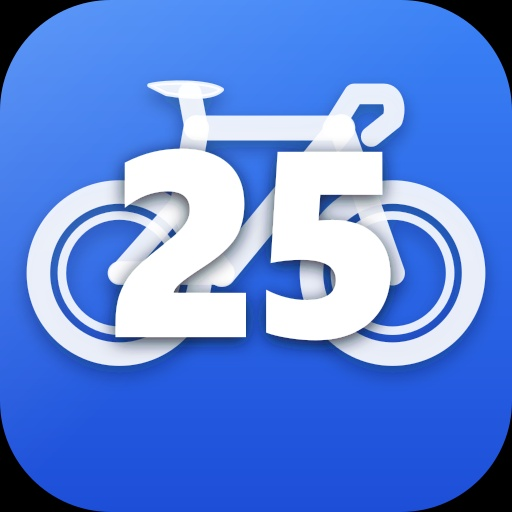
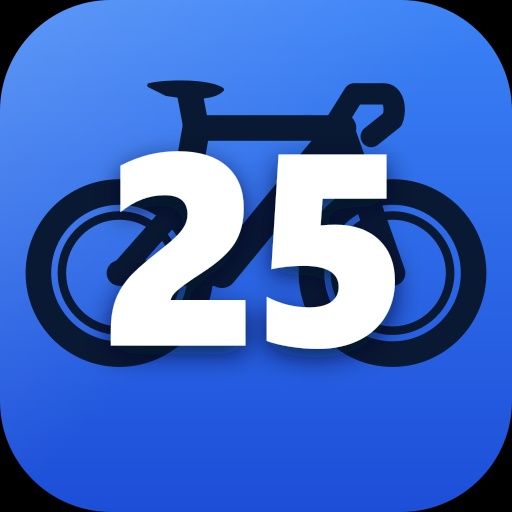
Apply Option 1: dark midnight Scott Foil RC silhouette with giant pure white day number for maximum contrast

Changed region(s): [[0.0312, 0.1562, 0.9688, 0.75]]

diff --git a/app/components/DynamicLogo.js b/app/components/DynamicLogo.js
@@ -9,7 +9,7 @@ export default function DynamicLogo({ className = "w-8 h-8", dayNumber }) {
         const currentDay = new Date().getDate();
         setToday(currentDay);
 
-        // Update favicon dynamically in real-time in browser tab (Google Calendar Style)
+        // Update favicon dynamically in real-time in browser tab
         try {
             const canvas = document.createElement('canvas');
             canvas.width = 64;
@@ -22,9 +22,9 @@ export default function DynamicLogo({ className = "w-8 h-8", dayNumber }) {
                 ctx.roundRect(0, 0, 64, 64, 15);
                 ctx.fill();
 
-                // 2. Scott Foil RC Bike Silhouette (Bold & High Visibility)
-                ctx.strokeStyle = 'rgba(255, 255, 255, 0.85)';
-                ctx.lineWidth = 3.2;
+                // 2. Scott Foil RC Bike Silhouette in Dark Midnight Slate
+                ctx.strokeStyle = '#091833';
+                ctx.lineWidth = 3.5;
                 ctx.lineCap = 'round';
                 ctx.lineJoin = 'round';
 
@@ -53,17 +53,17 @@ export default function DynamicLogo({ className = "w-8 h-8", dayNumber }) {
                 ctx.lineTo(49, 16);
                 ctx.stroke();
 
-                // 3. Foreground: HUGE PURE WHITE BOLD DAY NUMBER (with subtle shadow)
-                ctx.shadowColor = 'rgba(15, 23, 42, 0.9)';
+                // 3. Foreground: HUGE PURE WHITE BOLD DAY NUMBER
+                ctx.shadowColor = 'rgba(5, 19, 41, 0.9)';
                 ctx.shadowBlur = 4;
                 ctx.shadowOffsetX = 0;
                 ctx.shadowOffsetY = 2;
 
                 ctx.fillStyle = '#ffffff';
-                ctx.font = '900 36px system-ui, -apple-system, sans-serif';
+                ctx.font = '900 38px system-ui, -apple-system, sans-serif';
                 ctx.textAlign = 'center';
                 ctx.textBaseline = 'middle';
-                ctx.fillText(currentDay.toString(), 32, 35);
+                ctx.fillText(currentDay.toString(), 32, 34);
 
                 // Update link icon in head
                 let link = document.querySelector("link[rel*='icon']");
@@ -86,66 +86,61 @@ export default function DynamicLogo({ className = "w-8 h-8", dayNumber }) {
             className={className}
         >
             <defs>
-                <linearGradient id="solidBlueGrad" x1="0%" y1="0%" x2="0%" y2="100%">
+                <linearGradient id="opt1BgGrad" x1="0%" y1="0%" x2="0%" y2="100%">
                     <stop offset="0%" stopColor="#3b82f6"/>
                     <stop offset="100%" stopColor="#1d4ed8"/>
                 </linearGradient>
 
-                <linearGradient id="topGlow" x1="0%" y1="0%" x2="100%" y2="100%">
+                <linearGradient id="opt1TopGlow" x1="0%" y1="0%" x2="100%" y2="100%">
                     <stop offset="0%" stopColor="#ffffff" stopOpacity="0.18"/>
                     <stop offset="50%" stopColor="#ffffff" stopOpacity="0"/>
                 </linearGradient>
 
-                <filter id="bikeShadow" x="-15%" y="-15%" width="130%" height="130%">
-                    <feDropShadow dx="0" dy="2" stdDeviation="2" floodColor="#0f172a" floodOpacity="0.4"/>
-                </filter>
-
-                <filter id="strongNumShadow" x="-20%" y="-20%" width="140%" height="140%">
-                    <feDropShadow dx="0" dy="3" stdDeviation="4" floodColor="#0f172a" floodOpacity="0.85"/>
-                    <feDropShadow dx="0" dy="1" stdDeviation="2" floodColor="#0f172a" floodOpacity="0.9"/>
+                <filter id="opt1Shadow" x="-20%" y="-20%" width="140%" height="140%">
+                    <feDropShadow dx="0" dy="2" stdDeviation="3" floodColor="#051329" floodOpacity="0.75"/>
                 </filter>
             </defs>
 
-            {/* 1. Solid Blue Squircle Base */}
-            <rect width="120" height="120" rx="26" ry="26" fill="url(#solidBlueGrad)"/>
-            <rect width="120" height="120" rx="26" ry="26" fill="url(#topGlow)"/>
+            {/* 1. Squircle Base Canvas */}
+            <rect width="120" height="120" rx="26" ry="26" fill="url(#opt1BgGrad)"/>
+            <rect width="120" height="120" rx="26" ry="26" fill="url(#opt1TopGlow)"/>
 
-            {/* 2. SCOTT FOIL RC 2026 Silhouette: BOLD, CRISP, HIGH-VISIBILITY PURE WHITE */}
-            <g stroke="#ffffff" strokeOpacity="0.88" strokeLinecap="round" strokeLinejoin="round" fill="none" filter="url(#bikeShadow)">
+            {/* 2. Scott Foil RC 2026 Silhouette in Dark Midnight Slate */}
+            <g stroke="#091833" strokeLinecap="round" strokeLinejoin="round" fill="none">
                 {/* Deep Section 50mm Carbon Aero Wheels */}
-                <circle cx="28" cy="64" r="19" strokeWidth="5.5"/>
+                <circle cx="28" cy="64" r="19" strokeWidth="6"/>
                 <circle cx="28" cy="64" r="13.5" strokeWidth="2"/>
                 
-                <circle cx="92" cy="64" r="19" strokeWidth="5.5"/>
+                <circle cx="92" cy="64" r="19" strokeWidth="6"/>
                 <circle cx="92" cy="64" r="13.5" strokeWidth="2"/>
 
                 {/* Scott Foil Frame lines */}
-                <line x1="28" y1="64" x2="52" y2="64" strokeWidth="5.5"/>
-                <line x1="28" y1="64" x2="43" y2="47" strokeWidth="4.8"/>
-                <path d="M43 47 C44 53, 48 59, 52 64" strokeWidth="6"/>
-                <line x1="43" y1="47" x2="46" y2="30" strokeWidth="6"/>
+                <line x1="28" y1="64" x2="52" y2="64" strokeWidth="6"/>
+                <line x1="28" y1="64" x2="43" y2="47" strokeWidth="5"/>
+                <path d="M43 47 C44 53, 48 59, 52 64" strokeWidth="6.5"/>
+                <line x1="43" y1="47" x2="46" y2="30" strokeWidth="6.5"/>
 
-                <line x1="46" y1="30" x2="80" y2="30" strokeWidth="5.8"/>
-                <line x1="52" y1="64" x2="80" y2="30" strokeWidth="6.5"/>
-                <line x1="80" y1="30" x2="92" y2="64" strokeWidth="5.8"/>
+                <line x1="46" y1="30" x2="80" y2="30" strokeWidth="6"/>
+                <line x1="52" y1="64" x2="80" y2="30" strokeWidth="7"/>
+                <line x1="80" y1="30" x2="92" y2="64" strokeWidth="6"/>
 
                 {/* Cockpit & Seatpost */}
-                <path d="M78 30 L83 22 L90 22 C92 22, 93 25, 92 28 L87 32" strokeWidth="4.8"/>
-                <line x1="46" y1="30" x2="44.5" y2="22" strokeWidth="5.5"/>
-                <path d="M35 20 C39 19, 49 19, 52 21 C50 23, 45 23, 39 22 Z" fill="#ffffff" fillOpacity="0.88" strokeWidth="1"/>
+                <path d="M78 30 L83 22 L90 22 C92 22, 93 25, 92 28 L87 32" strokeWidth="5"/>
+                <line x1="46" y1="30" x2="44.5" y2="22" strokeWidth="6"/>
+                <path d="M35 20 C39 19, 49 19, 52 21 C50 23, 45 23, 39 22 Z" fill="#091833" strokeWidth="1"/>
             </g>
 
-            {/* 3. Foreground: HUGE PURE WHITE DAY NUMBER (Exact Google Calendar Style) */}
+            {/* 3. Foreground: HUGE PURE WHITE DAY NUMBER (Maximum Contrast) */}
             <text 
                 x="60" 
-                y="79" 
+                y="81" 
                 fontFamily="-apple-system, BlinkMacSystemFont, 'Segoe UI', Roboto, 'Helvetica Neue', Arial, sans-serif" 
-                fontSize="62" 
+                fontSize="64" 
                 fontWeight="900" 
                 fill="#ffffff" 
                 textAnchor="middle" 
                 letterSpacing="-3"
-                filter="url(#strongNumShadow)"
+                filter="url(#opt1Shadow)"
             >
                 {today}
             </text>
